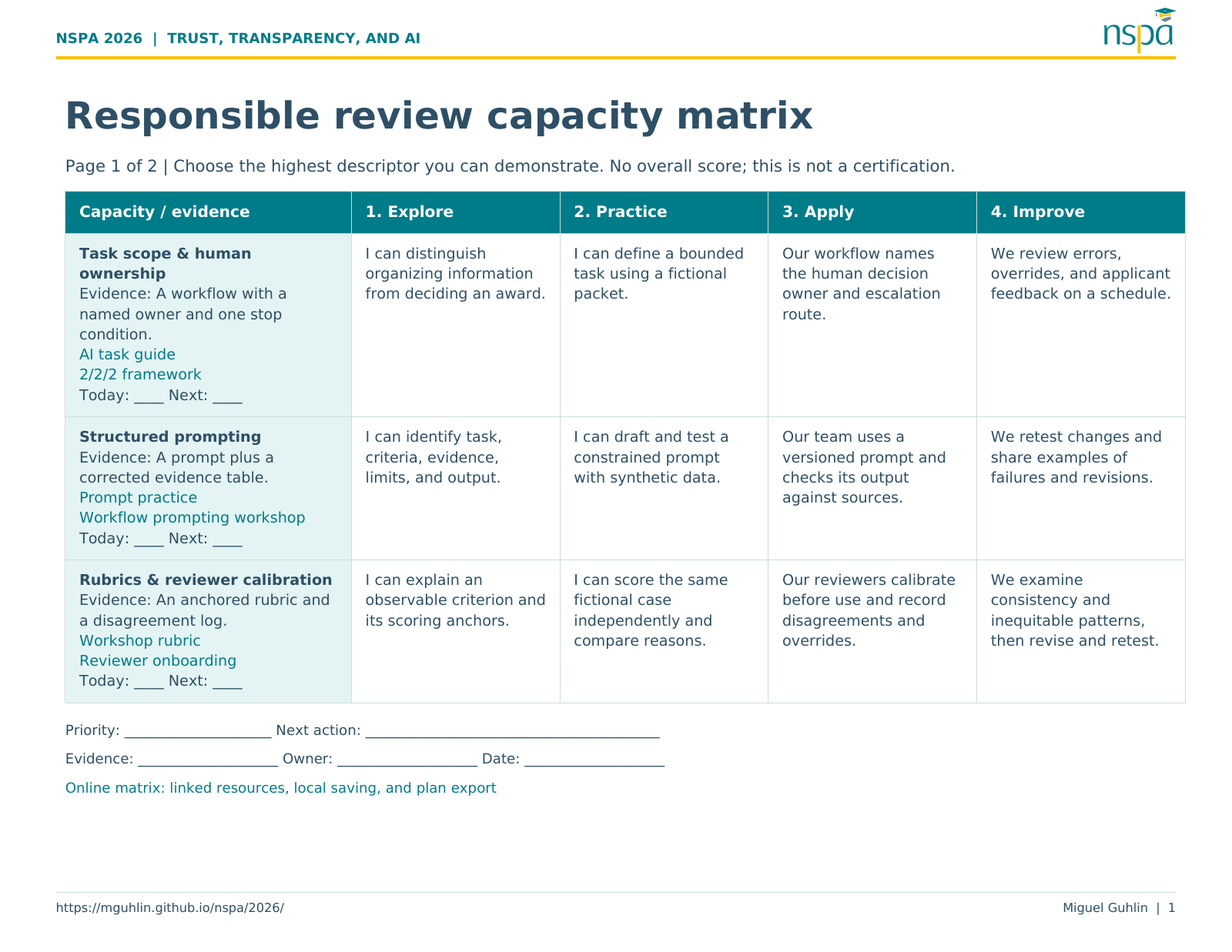
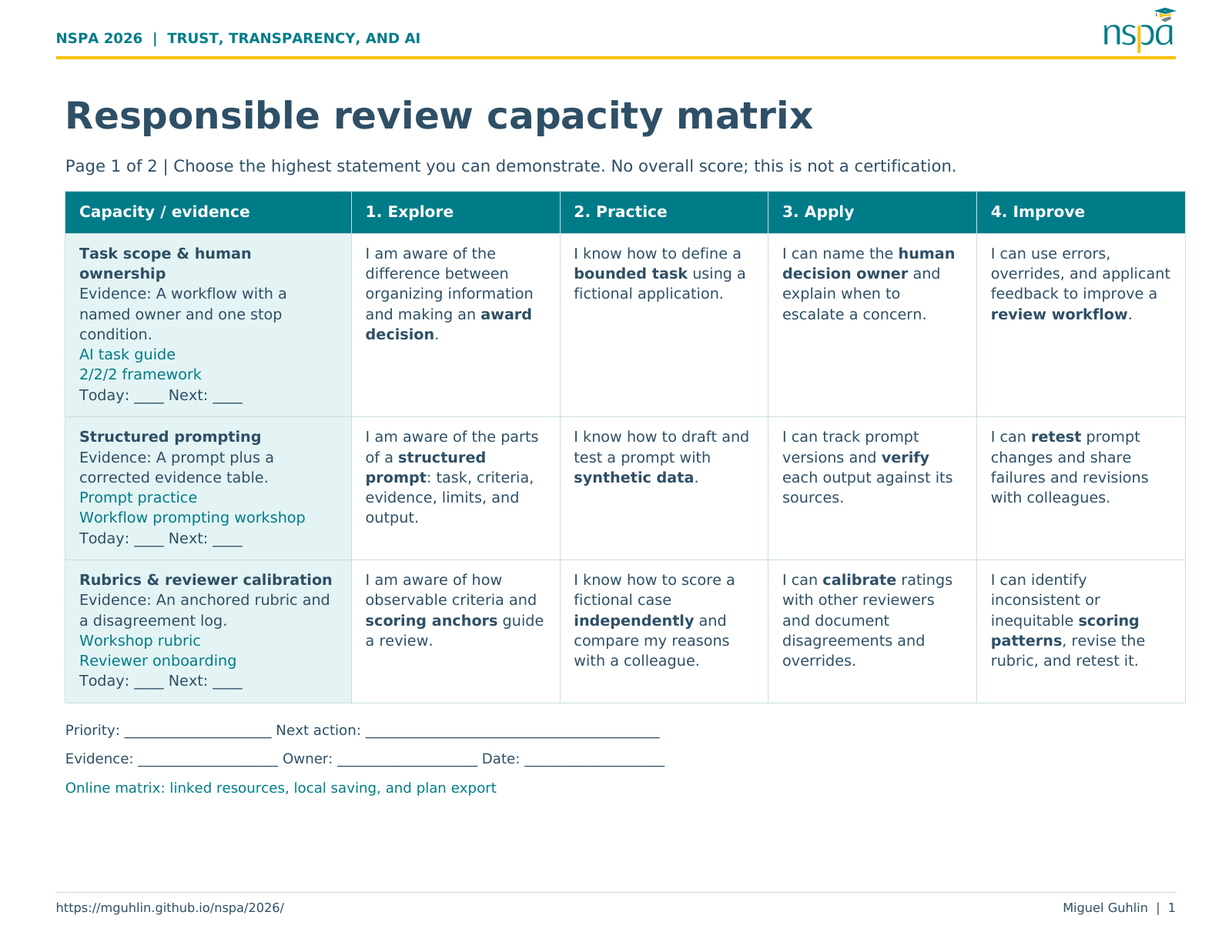
Rewrite capacity matrix as first-person learning statements

diff --git a/2026/capacity-matrix.html b/2026/capacity-matrix.html
@@ -1,2 +1,2 @@
 <!doctype html>
-<html lang="en"><head><meta charset="utf-8"><meta name="viewport" content="width=device-width,initial-scale=1"><meta name="theme-color" content="#007681"><meta name="description" content="Miguel Guhlin’s NSPA resource library: conference materials, AI guides, scholarship workflows, assessments, and activities."><title>Capacity matrix | NSPA 2026</title><link rel="canonical" href="https://mguhlin.github.io/nspa/2026/capacity-matrix.html"><link rel="icon" href="../assets/favicon.svg" type="image/svg+xml"><link rel="stylesheet" href="../assets/site.css"><link rel="stylesheet" href="workshop.css"></head><body><a class="skip" href="#main">Skip to content</a><header class="masthead wrap"><div class="brand"><a class="brand-home" href="../"><img class="nspa-logo" src="../assets/nspa-logo.png" alt="NSPA" width="110" height="70"></a><span class="brand-caption">A resource collection<br>by <a href="https://mguhlin.org">Miguel Guhlin</a></span></div><nav aria-label="Main navigation"><a href="../#library">Resource library</a><a class="nav-conference" href="./">2026 conference <span aria-hidden="true">↗</span></a></nav></header><nav class="workshop-nav wrap" aria-label="Workshop navigation"><a href="./">Workshop hub</a><a href="practice.html">Practice lab</a><a href="capacity-matrix.html">Capacity matrix</a><a href="./#downloads">Downloads</a></nav><main id="main" class="wrap workshop"><p class="eyebrow">Your workshop capacity matrix</p><h1>Choose your next step</h1><p class="lead">Six capacities for responsible scholarship review. Choose the highest descriptor you can demonstrate in each row. Uneven profiles are normal; this is a self-reflection tool, not a certification.</p><p class="notice">Your ratings and plan stay in this browser’s local storage. Nothing is submitted to a server. Export a copy to keep it; clear the plan on a shared device. Do not enter applicant information.</p><noscript><p>Interactive saving requires JavaScript. Use the <a href="handouts/capacity-matrix.pdf">printable matrix</a> to record your choices.</p></noscript><div class="matrix-wrap"><table class="capacity-table"><caption>From understanding to an evidence-backed team practice</caption><thead><tr><th scope="col">Capacity</th><th scope="col">1. Explore</th><th scope="col">2. Practice</th><th scope="col">3. Apply</th><th scope="col">4. Improve</th></tr></thead><tbody><tr><th scope="row"><strong>Task scope &amp; human ownership</strong><small>Evidence: A workflow with a named owner and one stop condition.</small><div class="matrix-links"><a href="../resources/nspa3_guide.html">AI task guide ↗</a><a href="../resources/nspa3_222_framework.html">2/2/2 framework ↗</a></div><button type="button" class="clear-row" data-clear="scope">Clear rating</button></th><td><label><input type="radio" name="scope" value="1" aria-label="Task scope &amp; human ownership: Explore"><span><b>Explore</b>I can distinguish organizing information from deciding an award.</span></label></td><td><label><input type="radio" name="scope" value="2" aria-label="Task scope &amp; human ownership: Practice"><span><b>Practice</b>I can define a bounded task using a fictional packet.</span></label></td><td><label><input type="radio" name="scope" value="3" aria-label="Task scope &amp; human ownership: Apply"><span><b>Apply</b>Our workflow names the human decision owner and escalation route.</span></label></td><td><label><input type="radio" name="scope" value="4" aria-label="Task scope &amp; human ownership: Improve"><span><b>Improve</b>We review errors, overrides, and applicant feedback on a schedule.</span></label></td></tr><tr><th scope="row"><strong>Structured prompting</strong><small>Evidence: A prompt plus a corrected evidence table.</small><div class="matrix-links"><a href="practice.html#prompt">Prompt practice ↗</a><a href="../resources/nspa3_workflow_prompting.html">Workflow prompting workshop ↗</a></div><button type="button" class="clear-row" data-clear="prompt">Clear rating</button></th><td><label><input type="radio" name="prompt" value="1" aria-label="Structured prompting: Explore"><span><b>Explore</b>I can identify task, criteria, evidence, limits, and output.</span></label></td><td><label><input type="radio" name="prompt" value="2" aria-label="Structured prompting: Practice"><span><b>Practice</b>I can draft and test a constrained prompt with synthetic data.</span></label></td><td><label><input type="radio" name="prompt" value="3" aria-label="Structured prompting: Apply"><span><b>Apply</b>Our team uses a versioned prompt and checks its output against sources.</span></label></td><td><label><input type="radio" name="prompt" value="4" aria-label="Structured prompting: Improve"><span><b>Improve</b>We retest changes and share examples of failures and revisions.</span></label></td></tr><tr><th scope="row"><strong>Rubrics &amp; reviewer calibration</strong><small>Evidence: An anchored rubric and a disagreement log.</small><div class="matrix-links"><a href="practice.html#rubric">Workshop rubric ↗</a><a href="../resources/nspa-example3-onboarding.html">Reviewer onboarding ↗</a></div><button type="button" class="clear-row" data-clear="rubric">Clear rating</button></th><td><label><input type="radio" name="rubric" value="1" aria-label="Rubrics &amp; reviewer calibration: Explore"><span><b>Explore</b>I can explain an observable criterion and its scoring anchors.</span></label></td><td><label><input type="radio" name="rubric" value="2" aria-label="Rubrics &amp; reviewer calibration: Practice"><span><b>Practice</b>I can score the same fictional case independently and compare reasons.</span></label></td><td><label><input type="radio" name="rubric" value="3" aria-label="Rubrics &amp; reviewer calibration: Apply"><span><b>Apply</b>Our reviewers calibrate before use and record disagreements and overrides.</span></label></td><td><label><input type="radio" name="rubric" value="4" aria-label="Rubrics &amp; reviewer calibration: Improve"><span><b>Improve</b>We examine consistency and inequitable patterns, then revise and retest.</span></label></td></tr><tr><th scope="row"><strong>Data protection &amp; approved tools</strong><small>Evidence: A documented data gate and service approval decision.</small><div class="matrix-links"><a href="handouts/protected-workflow.pdf">Protected workflow reference ↗</a><a href="../resources/nspa-example2-triage.html">Application triage example ↗</a></div><button type="button" class="clear-row" data-clear="privacy">Clear rating</button></th><td><label><input type="radio" name="privacy" value="1" aria-label="Data protection &amp; approved tools: Explore"><span><b>Explore</b>I can identify sensitive data and why a public chatbot is not a default destination.</span></label></td><td><label><input type="radio" name="privacy" value="2" aria-label="Data protection &amp; approved tools: Practice"><span><b>Practice</b>I can rehearse minimization and a data approval gate with synthetic data.</span></label></td><td><label><input type="radio" name="privacy" value="3" aria-label="Data protection &amp; approved tools: Apply"><span><b>Apply</b>We verify service terms, access, retention, deletion, and incident ownership.</span></label></td><td><label><input type="radio" name="privacy" value="4" aria-label="Data protection &amp; approved tools: Improve"><span><b>Improve</b>We audit approved uses and revisit settings, contracts, and access over time.</span></label></td></tr><tr><th scope="row"><strong>Applicant AI use &amp; fair response</strong><small>Evidence: A policy starter and one worked response scenario.</small><div class="matrix-links"><a href="practice.html#policy">Policy lab ↗</a><a href="handouts/fair-ai-policy.pdf">Fair response reference ↗</a></div><button type="button" class="clear-row" data-clear="policy">Clear rating</button></th><td><label><input type="radio" name="policy" value="1" aria-label="Applicant AI use &amp; fair response: Explore"><span><b>Explore</b>I can distinguish a detector signal from proof of a rule violation.</span></label></td><td><label><input type="radio" name="policy" value="2" aria-label="Applicant AI use &amp; fair response: Practice"><span><b>Practice</b>I can explain permitted uses, disclosure, and a fair follow-up.</span></label></td><td><label><input type="radio" name="policy" value="3" aria-label="Applicant AI use &amp; fair response: Apply"><span><b>Apply</b>Our published rules include accessible explanations and review or appeal.</span></label></td><td><label><input type="radio" name="policy" value="4" aria-label="Applicant AI use &amp; fair response: Improve"><span><b>Improve</b>We review policy outcomes and revise confusing or unfair requirements.</span></label></td></tr><tr><th scope="row"><strong>Pilot evaluation &amp; transparency</strong><small>Evidence: A pilot plan with baseline, measures, owner, and stop rule.</small><div class="matrix-links"><a href="practice.html#action">30-day action plan ↗</a><a href="../resources/nspa3_222_framework.html">2/2/2 pilot framework ↗</a></div><button type="button" class="clear-row" data-clear="improve">Clear rating</button></th><td><label><input type="radio" name="improve" value="1" aria-label="Pilot evaluation &amp; transparency: Explore"><span><b>Explore</b>I can name an error that could harm an applicant.</span></label></td><td><label><input type="radio" name="improve" value="2" aria-label="Pilot evaluation &amp; transparency: Practice"><span><b>Practice</b>I can test a small fictional set against a human reference.</span></label></td><td><label><input type="radio" name="improve" value="3" aria-label="Pilot evaluation &amp; transparency: Apply"><span><b>Apply</b>Our pilot logs source errors, omissions, review time, and stop conditions.</span></label></td><td><label><input type="radio" name="improve" value="4" aria-label="Pilot evaluation &amp; transparency: Improve"><span><b>Improve</b>We publish appropriate process information and monitor after changes.</span></label></td></tr></tbody></table></div><section class="plan-form" aria-labelledby="plan-title"><h2 id="plan-title">My 30-day action plan</h2><p id="matrix-status" role="status" aria-live="polite">No capacities assessed yet.</p><label>Priority capacity<select id="priority"><option value="">Choose a capacity</option><option value="scope">Task scope & human ownership</option><option value="prompt">Structured prompting</option><option value="rubric">Rubrics & reviewer calibration</option><option value="privacy">Data protection & approved tools</option><option value="policy">Applicant AI use & fair response</option><option value="improve">Pilot evaluation & transparency</option></select></label><label>My next action<textarea id="next-action" rows="3" maxlength="1500" placeholder="Example: test a completeness prompt on three synthetic packets."></textarea></label><label>Evidence of progress<textarea id="evidence" rows="2" maxlength="1000" placeholder="Example: a corrected table and a log of omissions."></textarea></label><div class="form-row"><label>Owner or role<input id="owner" maxlength="150" placeholder="Example: review lead"></label><label>Target date<input id="target-date" type="date"></label></div><label>Stop condition<textarea id="stop" rows="2" maxlength="1000" placeholder="Example: pause if the tool invents a source quote."></textarea></label><div class="actions"><button class="button" id="export-plan" type="button">Export my plan (.txt)</button><button class="button secondary" id="print-plan" type="button">Print matrix & plan</button><button class="text-button" id="reset-plan" type="button">Clear all saved answers</button></div><p id="save-status" role="status" aria-live="polite"></p></section><script src="capacity-matrix.js" defer></script></main><footer class="wrap footer"><p>NSPA 2026 workshop · <a href="https://mguhlin.org">Miguel Guhlin</a></p><p>October 21 · 3:30–5:00 PM CT</p></footer></body></html>
+<html lang="en"><head><meta charset="utf-8"><meta name="viewport" content="width=device-width,initial-scale=1"><meta name="theme-color" content="#007681"><meta name="description" content="Miguel Guhlin’s NSPA resource library: conference materials, AI guides, scholarship workflows, assessments, and activities."><title>Capacity matrix | NSPA 2026</title><link rel="canonical" href="https://mguhlin.github.io/nspa/2026/capacity-matrix.html"><link rel="icon" href="../assets/favicon.svg" type="image/svg+xml"><link rel="stylesheet" href="../assets/site.css"><link rel="stylesheet" href="workshop.css"></head><body><a class="skip" href="#main">Skip to content</a><header class="masthead wrap"><div class="brand"><a class="brand-home" href="../"><img class="nspa-logo" src="../assets/nspa-logo.png" alt="NSPA" width="110" height="70"></a><span class="brand-caption">A resource collection<br>by <a href="https://mguhlin.org">Miguel Guhlin</a></span></div><nav aria-label="Main navigation"><a href="../#library">Resource library</a><a class="nav-conference" href="./">2026 conference <span aria-hidden="true">↗</span></a></nav></header><nav class="workshop-nav wrap" aria-label="Workshop navigation"><a href="./">Workshop hub</a><a href="practice.html">Practice lab</a><a href="capacity-matrix.html">Capacity matrix</a><a href="./#downloads">Downloads</a></nav><main id="main" class="wrap workshop"><p class="eyebrow">Your workshop capacity matrix</p><h1>Choose your next step</h1><p class="lead">Six capacities for responsible scholarship review. Choose the highest “I” statement you can demonstrate in each row. Uneven profiles are normal; this is a self-reflection tool, not a certification.</p><p class="notice">Your ratings and plan stay in this browser’s local storage. Nothing is submitted to a server. Export a copy to keep it; clear the plan on a shared device. Do not enter applicant information.</p><noscript><p>Interactive saving requires JavaScript. Use the <a href="handouts/capacity-matrix.pdf">printable matrix</a> to record your choices.</p></noscript><div class="matrix-wrap"><table class="capacity-table"><caption>From awareness to applying and improving my practice</caption><thead><tr><th scope="col">Capacity</th><th scope="col">1. Explore</th><th scope="col">2. Practice</th><th scope="col">3. Apply</th><th scope="col">4. Improve</th></tr></thead><tbody><tr><th scope="row"><strong>Task scope &amp; human ownership</strong><small>Evidence: A workflow with a named owner and one stop condition.</small><div class="matrix-links"><a href="../resources/nspa3_guide.html">AI task guide ↗</a><a href="../resources/nspa3_222_framework.html">2/2/2 framework ↗</a></div><button type="button" class="clear-row" data-clear="scope">Clear rating</button></th><td><label><input type="radio" name="scope" value="1" aria-label="Task scope &amp; human ownership: Explore"><span><b>Explore</b>I am aware of the difference between organizing information and making an <strong>award decision</strong>.</span></label></td><td><label><input type="radio" name="scope" value="2" aria-label="Task scope &amp; human ownership: Practice"><span><b>Practice</b>I know how to define a <strong>bounded task</strong> using a fictional application.</span></label></td><td><label><input type="radio" name="scope" value="3" aria-label="Task scope &amp; human ownership: Apply"><span><b>Apply</b>I can name the <strong>human decision owner</strong> and explain when to escalate a concern.</span></label></td><td><label><input type="radio" name="scope" value="4" aria-label="Task scope &amp; human ownership: Improve"><span><b>Improve</b>I can use errors, overrides, and applicant feedback to improve a <strong>review workflow</strong>.</span></label></td></tr><tr><th scope="row"><strong>Structured prompting</strong><small>Evidence: A prompt plus a corrected evidence table.</small><div class="matrix-links"><a href="practice.html#prompt">Prompt practice ↗</a><a href="../resources/nspa3_workflow_prompting.html">Workflow prompting workshop ↗</a></div><button type="button" class="clear-row" data-clear="prompt">Clear rating</button></th><td><label><input type="radio" name="prompt" value="1" aria-label="Structured prompting: Explore"><span><b>Explore</b>I am aware of the parts of a <strong>structured prompt</strong>: task, criteria, evidence, limits, and output.</span></label></td><td><label><input type="radio" name="prompt" value="2" aria-label="Structured prompting: Practice"><span><b>Practice</b>I know how to draft and test a prompt with <strong>synthetic data</strong>.</span></label></td><td><label><input type="radio" name="prompt" value="3" aria-label="Structured prompting: Apply"><span><b>Apply</b>I can track prompt versions and <strong>verify</strong> each output against its sources.</span></label></td><td><label><input type="radio" name="prompt" value="4" aria-label="Structured prompting: Improve"><span><b>Improve</b>I can <strong>retest</strong> prompt changes and share failures and revisions with colleagues.</span></label></td></tr><tr><th scope="row"><strong>Rubrics &amp; reviewer calibration</strong><small>Evidence: An anchored rubric and a disagreement log.</small><div class="matrix-links"><a href="practice.html#rubric">Workshop rubric ↗</a><a href="../resources/nspa-example3-onboarding.html">Reviewer onboarding ↗</a></div><button type="button" class="clear-row" data-clear="rubric">Clear rating</button></th><td><label><input type="radio" name="rubric" value="1" aria-label="Rubrics &amp; reviewer calibration: Explore"><span><b>Explore</b>I am aware of how observable criteria and <strong>scoring anchors</strong> guide a review.</span></label></td><td><label><input type="radio" name="rubric" value="2" aria-label="Rubrics &amp; reviewer calibration: Practice"><span><b>Practice</b>I know how to score a fictional case <strong>independently</strong> and compare my reasons with a colleague.</span></label></td><td><label><input type="radio" name="rubric" value="3" aria-label="Rubrics &amp; reviewer calibration: Apply"><span><b>Apply</b>I can <strong>calibrate</strong> ratings with other reviewers and document disagreements and overrides.</span></label></td><td><label><input type="radio" name="rubric" value="4" aria-label="Rubrics &amp; reviewer calibration: Improve"><span><b>Improve</b>I can identify inconsistent or inequitable <strong>scoring patterns</strong>, revise the rubric, and retest it.</span></label></td></tr><tr><th scope="row"><strong>Data protection &amp; approved tools</strong><small>Evidence: A documented data gate and service approval decision.</small><div class="matrix-links"><a href="handouts/protected-workflow.pdf">Protected workflow reference ↗</a><a href="../resources/nspa-example2-triage.html">Application triage example ↗</a></div><button type="button" class="clear-row" data-clear="privacy">Clear rating</button></th><td><label><input type="radio" name="privacy" value="1" aria-label="Data protection &amp; approved tools: Explore"><span><b>Explore</b>I am aware of <strong>sensitive applicant data</strong> and why it needs protection when using AI.</span></label></td><td><label><input type="radio" name="privacy" value="2" aria-label="Data protection &amp; approved tools: Practice"><span><b>Practice</b>I know how to practice <strong>data minimization</strong> and an approval check with synthetic data.</span></label></td><td><label><input type="radio" name="privacy" value="3" aria-label="Data protection &amp; approved tools: Apply"><span><b>Apply</b>I can check <strong>service terms</strong>, access, retention, deletion, and who handles an incident.</span></label></td><td><label><input type="radio" name="privacy" value="4" aria-label="Data protection &amp; approved tools: Improve"><span><b>Improve</b>I can review <strong>approved AI uses</strong> and identify when settings, contracts, or access need updating.</span></label></td></tr><tr><th scope="row"><strong>Applicant AI use &amp; fair response</strong><small>Evidence: A policy starter and one worked response scenario.</small><div class="matrix-links"><a href="practice.html#policy">Policy lab ↗</a><a href="handouts/fair-ai-policy.pdf">Fair response reference ↗</a></div><button type="button" class="clear-row" data-clear="policy">Clear rating</button></th><td><label><input type="radio" name="policy" value="1" aria-label="Applicant AI use &amp; fair response: Explore"><span><b>Explore</b>I am aware that AI detectors can produce <strong>false positives</strong> and cannot prove a rule violation.</span></label></td><td><label><input type="radio" name="policy" value="2" aria-label="Applicant AI use &amp; fair response: Practice"><span><b>Practice</b>I know how to explain permitted AI uses, <strong>disclosure</strong> requirements, and a fair follow-up.</span></label></td><td><label><input type="radio" name="policy" value="3" aria-label="Applicant AI use &amp; fair response: Apply"><span><b>Apply</b>I can apply published rules and offer an accessible explanation and <strong>review or appeal</strong> route.</span></label></td><td><label><input type="radio" name="policy" value="4" aria-label="Applicant AI use &amp; fair response: Improve"><span><b>Improve</b>I can use <strong>policy outcomes</strong> to identify and revise confusing or unfair requirements.</span></label></td></tr><tr><th scope="row"><strong>Pilot evaluation &amp; transparency</strong><small>Evidence: A pilot plan with baseline, measures, owner, and stop rule.</small><div class="matrix-links"><a href="practice.html#action">30-day action plan ↗</a><a href="../resources/nspa3_222_framework.html">2/2/2 pilot framework ↗</a></div><button type="button" class="clear-row" data-clear="improve">Clear rating</button></th><td><label><input type="radio" name="improve" value="1" aria-label="Pilot evaluation &amp; transparency: Explore"><span><b>Explore</b>I am aware of <strong>AI errors</strong> that could harm an applicant.</span></label></td><td><label><input type="radio" name="improve" value="2" aria-label="Pilot evaluation &amp; transparency: Practice"><span><b>Practice</b>I know how to test fictional applications against a <strong>human reference</strong>.</span></label></td><td><label><input type="radio" name="improve" value="3" aria-label="Pilot evaluation &amp; transparency: Apply"><span><b>Apply</b>I can record source errors, omissions, review time, and <strong>stop conditions</strong> during a pilot.</span></label></td><td><label><input type="radio" name="improve" value="4" aria-label="Pilot evaluation &amp; transparency: Improve"><span><b>Improve</b>I can explain the review process to others and <strong>monitor results</strong> after changes.</span></label></td></tr></tbody></table></div><section class="plan-form" aria-labelledby="plan-title"><h2 id="plan-title">My 30-day action plan</h2><p id="matrix-status" role="status" aria-live="polite">No capacities assessed yet.</p><label>Priority capacity<select id="priority"><option value="">Choose a capacity</option><option value="scope">Task scope & human ownership</option><option value="prompt">Structured prompting</option><option value="rubric">Rubrics & reviewer calibration</option><option value="privacy">Data protection & approved tools</option><option value="policy">Applicant AI use & fair response</option><option value="improve">Pilot evaluation & transparency</option></select></label><label>My next action<textarea id="next-action" rows="3" maxlength="1500" placeholder="Example: test a completeness prompt on three synthetic packets."></textarea></label><label>Evidence of progress<textarea id="evidence" rows="2" maxlength="1000" placeholder="Example: a corrected table and a log of omissions."></textarea></label><div class="form-row"><label>Owner or role<input id="owner" maxlength="150" placeholder="Example: review lead"></label><label>Target date<input id="target-date" type="date"></label></div><label>Stop condition<textarea id="stop" rows="2" maxlength="1000" placeholder="Example: pause if the tool invents a source quote."></textarea></label><div class="actions"><button class="button" id="export-plan" type="button">Export my plan (.txt)</button><button class="button secondary" id="print-plan" type="button">Print matrix & plan</button><button class="text-button" id="reset-plan" type="button">Clear all saved answers</button></div><p id="save-status" role="status" aria-live="polite"></p></section><script src="capacity-matrix.js" defer></script></main><footer class="wrap footer"><p>NSPA 2026 workshop · <a href="https://mguhlin.org">Miguel Guhlin</a></p><p>October 21 · 3:30–5:00 PM CT</p></footer></body></html>

diff --git a/scripts/workshop/content.py b/scripts/workshop/content.py
@@ -38,12 +38,65 @@ Provide a brief AI-use statement only for the uses the published rules require. 
 Our review team may use an approved AI service to organize or draft summaries of permitted information. Human reviewers verify evidence, apply the published rubric, and make decisions. An AI-writing detector score alone will not establish a violation or determine an award. If a concern arises, we identify the specific rule and evidence, invite an explanation, and provide review by a designated person who was not the original decision-maker when feasible.
 
 Before launch, specify permitted and prohibited uses, disclosure examples, the response period, decision and appeal owners, and the effective application cycle. Publish the same expectations to applicants and reviewers. Review with the organization's policy, accessibility, privacy, and legal owners. Do not retroactively apply a new rule.'''
-DOMAINS=[
-{'id':'scope','title':'Task scope & human ownership','levels':['I can distinguish organizing information from deciding an award.','I can define a bounded task using a fictional packet.','Our workflow names the human decision owner and escalation route.','We review errors, overrides, and applicant feedback on a schedule.'],'evidence':'A workflow with a named owner and one stop condition.','links':[('AI task guide','../resources/nspa3_guide.html'),('2/2/2 framework','../resources/nspa3_222_framework.html')]},
-{'id':'prompt','title':'Structured prompting','levels':['I can identify task, criteria, evidence, limits, and output.','I can draft and test a constrained prompt with synthetic data.','Our team uses a versioned prompt and checks its output against sources.','We retest changes and share examples of failures and revisions.'],'evidence':'A prompt plus a corrected evidence table.','links':[('Prompt practice','practice.html#prompt'),('Workflow prompting workshop','../resources/nspa3_workflow_prompting.html')]},
-{'id':'rubric','title':'Rubrics & reviewer calibration','levels':['I can explain an observable criterion and its scoring anchors.','I can score the same fictional case independently and compare reasons.','Our reviewers calibrate before use and record disagreements and overrides.','We examine consistency and inequitable patterns, then revise and retest.'],'evidence':'An anchored rubric and a disagreement log.','links':[('Workshop rubric','practice.html#rubric'),('Reviewer onboarding','../resources/nspa-example3-onboarding.html')]},
-{'id':'privacy','title':'Data protection & approved tools','levels':['I can identify sensitive data and why a public chatbot is not a default destination.','I can rehearse minimization and a data approval gate with synthetic data.','We verify service terms, access, retention, deletion, and incident ownership.','We audit approved uses and revisit settings, contracts, and access over time.'],'evidence':'A documented data gate and service approval decision.','links':[('Protected workflow reference','handouts/protected-workflow.pdf'),('Application triage example','../resources/nspa-example2-triage.html')]},
-{'id':'policy','title':'Applicant AI use & fair response','levels':['I can distinguish a detector signal from proof of a rule violation.','I can explain permitted uses, disclosure, and a fair follow-up.','Our published rules include accessible explanations and review or appeal.','We review policy outcomes and revise confusing or unfair requirements.'],'evidence':'A policy starter and one worked response scenario.','links':[('Policy lab','practice.html#policy'),('Fair response reference','handouts/fair-ai-policy.pdf')]},
-{'id':'improve','title':'Pilot evaluation & transparency','levels':['I can name an error that could harm an applicant.','I can test a small fictional set against a human reference.','Our pilot logs source errors, omissions, review time, and stop conditions.','We publish appropriate process information and monitor after changes.'],'evidence':'A pilot plan with baseline, measures, owner, and stop rule.','links':[('30-day action plan','practice.html#action'),('2/2/2 pilot framework','../resources/nspa3_222_framework.html')]}
-]
+DOMAINS=[{'id': 'scope',
+  'title': 'Task scope & human ownership',
+  'levels': ['I am aware of the difference between organizing information and making an award decision.',
+             'I know how to define a bounded task using a fictional application.',
+             'I can name the human decision owner and explain when to escalate a concern.',
+             'I can use errors, overrides, and applicant feedback to improve a review workflow.'],
+  'evidence': 'A workflow with a named owner and one stop condition.',
+  'links': [('AI task guide', '../resources/nspa3_guide.html'),
+            ('2/2/2 framework', '../resources/nspa3_222_framework.html')],
+  'vocabulary': ['award decision', 'bounded task', 'human decision owner', 'review workflow']},
+ {'id': 'prompt',
+  'title': 'Structured prompting',
+  'levels': ['I am aware of the parts of a structured prompt: task, criteria, evidence, limits, and output.',
+             'I know how to draft and test a prompt with synthetic data.',
+             'I can track prompt versions and verify each output against its sources.',
+             'I can retest prompt changes and share failures and revisions with colleagues.'],
+  'evidence': 'A prompt plus a corrected evidence table.',
+  'links': [('Prompt practice', 'practice.html#prompt'),
+            ('Workflow prompting workshop', '../resources/nspa3_workflow_prompting.html')],
+  'vocabulary': ['structured prompt', 'synthetic data', 'verify', 'retest']},
+ {'id': 'rubric',
+  'title': 'Rubrics & reviewer calibration',
+  'levels': ['I am aware of how observable criteria and scoring anchors guide a review.',
+             'I know how to score a fictional case independently and compare my reasons with a colleague.',
+             'I can calibrate ratings with other reviewers and document disagreements and overrides.',
+             'I can identify inconsistent or inequitable scoring patterns, revise the rubric, and retest '
+             'it.'],
+  'evidence': 'An anchored rubric and a disagreement log.',
+  'links': [('Workshop rubric', 'practice.html#rubric'),
+            ('Reviewer onboarding', '../resources/nspa-example3-onboarding.html')],
+  'vocabulary': ['scoring anchors', 'independently', 'calibrate', 'scoring patterns']},
+ {'id': 'privacy',
+  'title': 'Data protection & approved tools',
+  'levels': ['I am aware of sensitive applicant data and why it needs protection when using AI.',
+             'I know how to practice data minimization and an approval check with synthetic data.',
+             'I can check service terms, access, retention, deletion, and who handles an incident.',
+             'I can review approved AI uses and identify when settings, contracts, or access need updating.'],
+  'evidence': 'A documented data gate and service approval decision.',
+  'links': [('Protected workflow reference', 'handouts/protected-workflow.pdf'),
+            ('Application triage example', '../resources/nspa-example2-triage.html')],
+  'vocabulary': ['sensitive applicant data', 'data minimization', 'service terms', 'approved AI uses']},
+ {'id': 'policy',
+  'title': 'Applicant AI use & fair response',
+  'levels': ['I am aware that AI detectors can produce false positives and cannot prove a rule violation.',
+             'I know how to explain permitted AI uses, disclosure requirements, and a fair follow-up.',
+             'I can apply published rules and offer an accessible explanation and review or appeal route.',
+             'I can use policy outcomes to identify and revise confusing or unfair requirements.'],
+  'evidence': 'A policy starter and one worked response scenario.',
+  'links': [('Policy lab', 'practice.html#policy'),
+            ('Fair response reference', 'handouts/fair-ai-policy.pdf')],
+  'vocabulary': ['false positives', 'disclosure', 'review or appeal', 'policy outcomes']},
+ {'id': 'improve',
+  'title': 'Pilot evaluation & transparency',
+  'levels': ['I am aware of AI errors that could harm an applicant.',
+             'I know how to test fictional applications against a human reference.',
+             'I can record source errors, omissions, review time, and stop conditions during a pilot.',
+             'I can explain the review process to others and monitor results after changes.'],
+  'evidence': 'A pilot plan with baseline, measures, owner, and stop rule.',
+  'links': [('30-day action plan', 'practice.html#action'),
+            ('2/2/2 pilot framework', '../resources/nspa3_222_framework.html')],
+  'vocabulary': ['AI errors', 'human reference', 'stop conditions', 'monitor results']}]
 LEVELS=['Explore','Practice','Apply','Improve']

diff --git a/scripts/workshop/site.py b/scripts/workshop/site.py
@@ -38,10 +38,10 @@ body+='<section id="policy"><h2>4. Draft a fair applicant AI-use policy</h2><p><
 body+='<section id="action"><h2>5. Set a 30-day capacity target</h2><p>Choose one task, one owner, one piece of evidence, and one stop condition. Begin with synthetic tests. Consider source errors, omissions, reviewer disagreement, and time spent verifying—not just generation speed.</p><a class="button" href="capacity-matrix.html">Build and export my capacity plan →</a><p><a href="handouts/participant-workbook.pdf">Download the workbook for a paper version</a></p></section><p class="copy-status" role="status" aria-live="polite"></p><script src="practice.js" defer></script>'
 (W/'practice.html').write_text(shell('Practice lab',body,'practice.html'))
 (W/'practice.js').write_text('''document.querySelectorAll('[data-copy]').forEach(button=>button.addEventListener('click',async()=>{const text=document.getElementById(button.dataset.copy).textContent;const status=document.querySelector('.copy-status');try{await navigator.clipboard.writeText(text);status.textContent='Copied. Use only the fictional practice packet.';button.textContent='Copied';setTimeout(()=>button.textContent='Copy text',1800);}catch{status.textContent='Copy is unavailable. Select the text above and copy it manually.';}}));''')
-body='<p class="eyebrow">Your workshop capacity matrix</p><h1>Choose your next step</h1><p class="lead">Six capacities for responsible scholarship review. Choose the highest descriptor you can demonstrate in each row. Uneven profiles are normal; this is a self-reflection tool, not a certification.</p><p class="notice">Your ratings and plan stay in this browser’s local storage. Nothing is submitted to a server. Export a copy to keep it; clear the plan on a shared device. Do not enter applicant information.</p><noscript><p>Interactive saving requires JavaScript. Use the <a href="handouts/capacity-matrix.pdf">printable matrix</a> to record your choices.</p></noscript><div class="matrix-wrap"><table class="capacity-table"><caption>From understanding to an evidence-backed team practice</caption><thead><tr><th scope="col">Capacity</th>'+''.join(f'<th scope="col">{i+1}. {level}</th>' for i,level in enumerate(LEVELS))+'</tr></thead><tbody>'
+body='<p class="eyebrow">Your workshop capacity matrix</p><h1>Choose your next step</h1><p class="lead">Six capacities for responsible scholarship review. Choose the highest “I” statement you can demonstrate in each row. Uneven profiles are normal; this is a self-reflection tool, not a certification.</p><p class="notice">Your ratings and plan stay in this browser’s local storage. Nothing is submitted to a server. Export a copy to keep it; clear the plan on a shared device. Do not enter applicant information.</p><noscript><p>Interactive saving requires JavaScript. Use the <a href="handouts/capacity-matrix.pdf">printable matrix</a> to record your choices.</p></noscript><div class="matrix-wrap"><table class="capacity-table"><caption>From awareness to applying and improving my practice</caption><thead><tr><th scope="col">Capacity</th>'+''.join(f'<th scope="col">{i+1}. {level}</th>' for i,level in enumerate(LEVELS))+'</tr></thead><tbody>'
 for d in DOMAINS:
  body+=f'<tr><th scope="row"><strong>{E(d["title"])}</strong><small>Evidence: {E(d["evidence"])}</small><div class="matrix-links">'+''.join(f'<a href="{u}">{t} ↗</a>' for t,u in d['links'])+f'</div><button type="button" class="clear-row" data-clear="{d["id"]}">Clear rating</button></th>'
- for i,text in enumerate(d['levels']):body+=f'<td><label><input type="radio" name="{d["id"]}" value="{i+1}" aria-label="{E(d["title"])}: {LEVELS[i]}"><span><b>{LEVELS[i]}</b>{E(text)}</span></label></td>'
+ for i,text in enumerate(d['levels']):body+=f'<td><label><input type="radio" name="{d["id"]}" value="{i+1}" aria-label="{E(d["title"])}: {LEVELS[i]}"><span><b>{LEVELS[i]}</b>{E(text).replace(E(d["vocabulary"][i]), "<strong>"+E(d["vocabulary"][i])+"</strong>")}</span></label></td>'
  body+='</tr>'
 body+='</tbody></table></div><section class="plan-form" aria-labelledby="plan-title"><h2 id="plan-title">My 30-day action plan</h2><p id="matrix-status" role="status" aria-live="polite">No capacities assessed yet.</p><label>Priority capacity<select id="priority"><option value="">Choose a capacity</option>'+''.join(f'<option value="{d["id"]}">{d["title"]}</option>' for d in DOMAINS)+'</select></label><label>My next action<textarea id="next-action" rows="3" maxlength="1500" placeholder="Example: test a completeness prompt on three synthetic packets."></textarea></label><label>Evidence of progress<textarea id="evidence" rows="2" maxlength="1000" placeholder="Example: a corrected table and a log of omissions."></textarea></label><div class="form-row"><label>Owner or role<input id="owner" maxlength="150" placeholder="Example: review lead"></label><label>Target date<input id="target-date" type="date"></label></div><label>Stop condition<textarea id="stop" rows="2" maxlength="1000" placeholder="Example: pause if the tool invents a source quote."></textarea></label><div class="actions"><button class="button" id="export-plan" type="button">Export my plan (.txt)</button><button class="button secondary" id="print-plan" type="button">Print matrix & plan</button><button class="text-button" id="reset-plan" type="button">Clear all saved answers</button></div><p id="save-status" role="status" aria-live="polite"></p></section><script src="capacity-matrix.js" defer></script>'
 (W/'capacity-matrix.html').write_text(shell('Capacity matrix',body,'capacity-matrix.html'))

diff --git a/scripts/workshop/pdfs.py b/scripts/workshop/pdfs.py
@@ -1,4 +1,5 @@
 from content import *
+import sys
 from reportlab.pdfgen import canvas
 from reportlab.lib import colors
 from reportlab.lib.pagesizes import letter,landscape
@@ -26,6 +27,7 @@ def text(s,style='body'):return p(escape(s),style)
 def header(c,doc):
  w,h=doc.pagesize;c.saveState();c.drawImage(str(ROOT/'assets/nspa-logo.png'),w-82,h-34,width=46,height=29,mask='auto');c.setFillColor(TEAL);c.setFont('Bold',9);c.drawString(36,h-28,'NSPA 2026  |  TRUST, TRANSPARENCY, AND AI');c.setStrokeColor(ORANGE);c.setLineWidth(2);c.line(36,h-37,w-36,h-37);c.setStrokeColor(colors.HexColor('#CCDDDD'));c.setLineWidth(.5);c.line(36,38,w-36,38);c.setFont('Body',8);c.setFillColor(INK);c.drawString(36,25,URL);c.linkURL(URL,(36,21,300,34),relative=0);c.drawRightString(w-36,25,f'Miguel Guhlin  |  {doc.page}');c.restoreState()
 def doc(name,story,size=letter):
+ if len(sys.argv)>1 and name not in sys.argv[1:]:return
  d=SimpleDocTemplate(str(OUT/(name+'.pdf')),pagesize=size,rightMargin=36,leftMargin=36,topMargin=53,bottomMargin=50,title=name.replace('-',' ').title(),author='Miguel Guhlin');d.build(story,onFirstPage=header,onLaterPages=header)
 def title(a,b):return [text(a,'h1'),text(b)]
 def section(a,b):return [text(a,'h2'),text(b)]
@@ -54,11 +56,11 @@ doc('fair-ai-policy',story)
 story=[]
 for page in range(2):
  if page:story.append(PageBreak())
- story+=title('Responsible review capacity matrix',f'Page {page+1} of 2 | Choose the highest descriptor you can demonstrate. No overall score; this is not a certification.')
+ story+=title('Responsible review capacity matrix',f'Page {page+1} of 2 | Choose the highest statement you can demonstrate. No overall score; this is not a certification.')
  rows=[[text('Capacity / evidence','white')]+[text(f'{i+1}. {l}','white') for i,l in enumerate(LEVELS)]]
  for d in DOMAINS[page*3:page*3+3]:
   label=f'<b>{escape(d["title"])}</b><br/>Evidence: {escape(d["evidence"])}<br/>'+ '<br/>'.join(f'<link href="{urljoin(URL,u)}" color="#007c89">{escape(t)}</link>' for t,u in d['links'])+'<br/>Today: ____  Next: ____'
-  rows.append([p(label,'table')]+[text(v,'table') for v in d['levels']])
+  rows.append([p(label,'table')]+[p(escape(v).replace(escape(term), '<b>'+escape(term)+'</b>'),'table') for v,term in zip(d['levels'],d['vocabulary'])])
  t=Table(rows,colWidths=[184,134,134,134,134],hAlign='LEFT');t.setStyle(TableStyle([('BACKGROUND',(0,0),(-1,0),TEAL),('BACKGROUND',(0,1),(0,-1),PALE),('VALIGN',(0,0),(-1,-1),'TOP'),('GRID',(0,0),(-1,-1),.5,colors.HexColor('#CCDDDD')),('LEFTPADDING',(0,0),(-1,-1),9),('RIGHTPADDING',(0,0),(-1,-1),9),('TOPPADDING',(0,0),(-1,-1),7),('BOTTOMPADDING',(0,0),(-1,-1),7)]));story.append(t)
  story += [Spacer(1,12),text('Priority: _____________________  Next action: __________________________________________','small'),text('Evidence: ____________________  Owner: ____________________  Date: ____________________','small'),p(f'<link href="{URL}capacity-matrix.html" color="#007c89">Online matrix: linked resources, local saving, and plan export</link>','small')]
 doc('capacity-matrix',story,landscape(letter))
@@ -88,4 +90,4 @@ story+=[PageBreak()]+title('Policy, capacity, and closure','Protect time for par
 for a,b in [('4:20-4:30 | Protected workflow','Use 4 minutes for the data gate and 6 for mapping checkpoints. Ask pairs to name the owner before the tool, before reviewer use, and before a final decision. Require one explicit stop condition.'),('4:30-4:45 | Applicant AI use','3 minutes: explain detector limitations and study context. 3 minutes: use the hypothetical 1,000 x 1% = 10 example; this is not a product benchmark. 3 minutes: separate permitted use, disclosure, and misrepresentation. 6 minutes: groups analyze translation-support scenario, draft a neutral message, and name a review path. Debrief against the published rule, not impressions of writing style.'),('4:45-4:55 | Capacity target','3 minutes: revisit the six capacities. 5 minutes: choose a row, current evidence, and next action. 2 minutes: define a 30-day pilot with owner, measure, and stop rule. Ask participants to export their local plan or mark the printed matrix.'),('4:55-5:00 | Exit and questions','3 minutes: one prompt change, one safeguard, one policy decision. 2 minutes: questions and hub reminder. If running late, shorten whole-group reporting and optional explanation, not the independent rubric pass or the policy-response activity.'),('What to collect or retain','Participants keep their prompt, evidence corrections, rubric discussion, workflow map, policy starter, and capacity plan. No applicant information is collected by this workshop site. Do not collect participant browser exports unless there is an explicit agreed purpose.')]:story+=section(a,b)
 story+=[source_line([0,1,2,3])]
 doc('facilitator-guide',story)
-print('Created 6 handout PDFs')
+print('Created handout PDFs: '+(', '.join(sys.argv[1:]) if len(sys.argv)>1 else 'all six'))
